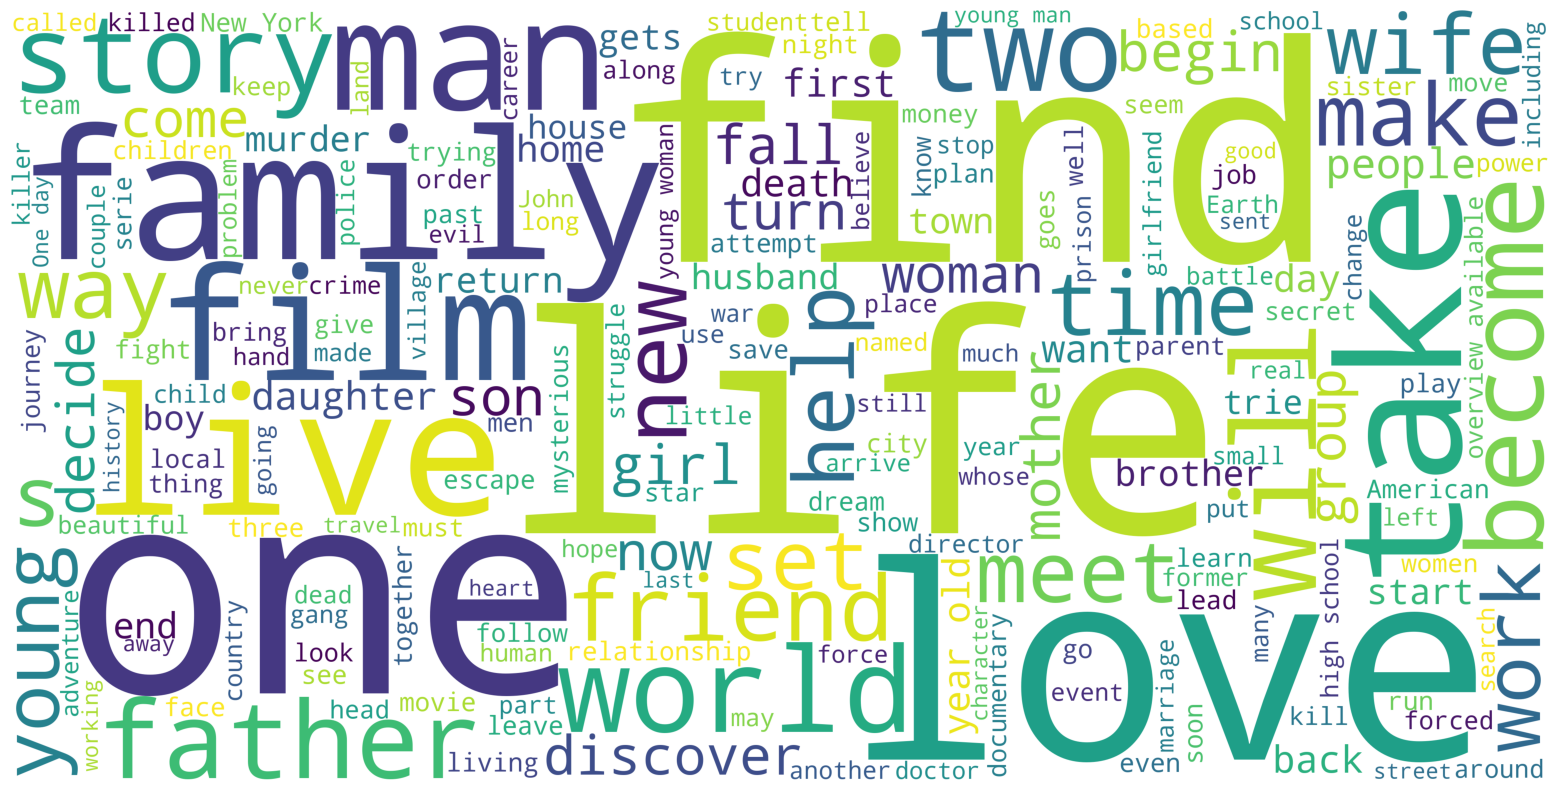
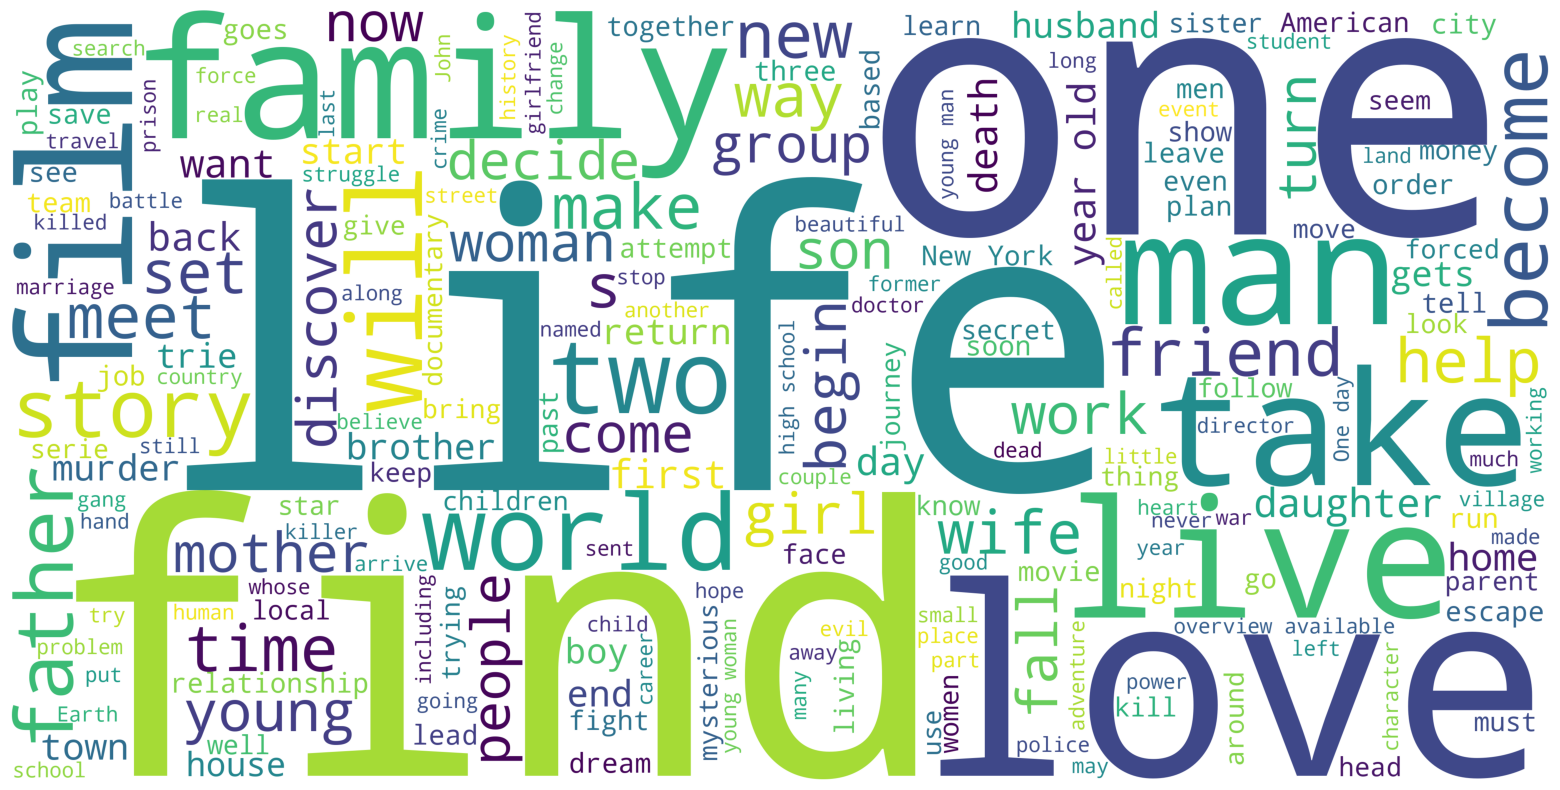
feature engineering

diff --git a/src/feature_engineering.py b/src/feature_engineering.py
@@ -1,0 +1,71 @@
+import pandas as pd
+import numpy as np
+import os
+
+class FeatureEngineering:
+    def __init__(self, dfs, interim_path="D:/Uni/Term 6/Machine Learning/HomeWork/6/data/interim/"):
+        self.merged_df = dfs["merged_df"]
+        self.interim_path = interim_path
+        os.makedirs(self.interim_path, exist_ok=True)
+
+    def add_budget_to_revenue_ratio(self):
+        self.merged_df['budget_to_revenue_ratio'] = self.merged_df.apply(
+            lambda row: row['budget'] / row['revenue'] if row['revenue'] and row['revenue'] > 0 else 0, axis=1
+        )
+
+    def add_top_genre_onehot(self, top_n=10):
+        # One-hot encode the top N genres
+        genre_dummies = self.merged_df['genres'].str.get_dummies(sep=', ')
+        top_genres = genre_dummies.sum().sort_values(ascending=False).head(top_n).index
+        for genre in top_genres:
+            self.merged_df[f"genre_{genre}"] = genre_dummies[genre]
+
+    def add_runtime_bins(self):
+        bins = [0, 60, 90, 120, 180, 10000]
+        labels = ['short', 'medium', 'long', 'epic', 'unknown']
+        self.merged_df['runtime_bin'] = pd.cut(self.merged_df['runtime'], bins=bins, labels=labels, right=False)
+
+    def add_log_features(self):
+        # Log-transform skewed features (add 1 to avoid log(0))
+        for col in ['budget', 'revenue', 'popularity', 'vote_count']:
+            self.merged_df[f'log_{col}'] = np.log1p(self.merged_df[col])
+
+    def add_interaction_features(self):
+        self.merged_df['budget_x_popularity'] = self.merged_df['budget'] * self.merged_df['popularity']
+        self.merged_df['budget_x_vote_count'] = self.merged_df['budget'] * self.merged_df['vote_count']
+
+    def add_count_features(self):
+        # Number of genres, keywords, cast, crew
+        self.merged_df['num_genres'] = self.merged_df['genres'].fillna('').apply(lambda x: len([g for g in x.split(',') if g.strip()]))
+        self.merged_df['num_keywords'] = self.merged_df['keywords'].fillna('').apply(lambda x: len([k for k in x.split(',') if k.strip()]))
+        self.merged_df['num_cast'] = self.merged_df['cast'].fillna('').apply(lambda x: len([c for c in x.split(',') if c.strip()]))
+        self.merged_df['num_crew'] = self.merged_df['crew'].fillna('').apply(lambda x: len([c for c in x.split(',') if c.strip()]))
+
+    def add_text_length_features(self):
+        self.merged_df['overview_length'] = self.merged_df['overview'].fillna('').apply(len)
+        self.merged_df['title_length'] = self.merged_df['title'].fillna('').apply(len)
+
+    def add_genre_mean_encoding(self):
+        # Mean encoding: mean rating per genre (for top 10 genres)
+        genre_ratings = {}
+        for genre in self.merged_df['genres'].str.split(',').explode().str.strip().unique():
+            if genre and genre != 'Unknown':
+                mask = self.merged_df['genres'].str.contains(rf'\b{genre}\b', regex=True)
+                genre_ratings[genre] = self.merged_df.loc[mask, 'rating'].mean()
+        for genre in list(genre_ratings.keys())[:10]:
+            self.merged_df[f'genre_{genre}_mean_rating'] = self.merged_df['genres'].apply(
+                lambda x: genre_ratings[genre] if genre in x else np.nan
+            )
+
+    def run_all(self):
+        self.add_budget_to_revenue_ratio()
+        self.add_top_genre_onehot()
+        self.add_runtime_bins()
+        self.add_log_features()
+        self.add_interaction_features()
+        self.add_count_features()
+        self.add_text_length_features()
+        self.add_genre_mean_encoding()
+        self.merged_df.to_csv(os.path.join(self.interim_path, "feature_engineered.csv"), index=False)
+        print("Feature engineering complete. Data saved to interim/feature_engineered.csv")
+        return self.merged_df

diff --git a/app/practical.py b/app/practical.py
@@ -6,6 +6,8 @@ sys.path.append(os.path.abspath(os.path.join(os.path.dirname(__file__), '..')))
 
 from src.preprocessing import Preprocessing
 from src.eda import EDA
+from src.feature_engineering import FeatureEngineering
+import pandas as pd
 
 def main():
     # Step 1: Preprocessing
@@ -16,7 +18,10 @@ def main():
     eda = EDA(dfs)
     eda.run_all()
 
+    # Step 3: Feature Engineering
+    fe = FeatureEngineering(dfs)
+    fe.run_all()
+
 if __name__ == "__main__":
-    print("START")
+    
     main()
-    print("END")
